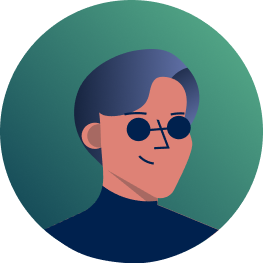
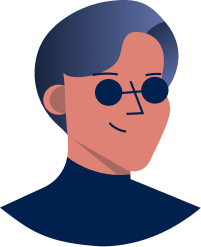
merge

diff --git a/html/index.html b/html/index.html
@@ -117,52 +117,66 @@
             </div>
         </div>
         <div class="flex--column content-main">
-            <div class="flex--row content-wrapper dash-wrapper active">
-                <div class="flex--column wrapper--left">
-                    <div class="flex--column welcome-header">
-                        <span class="header">Hi, Remolo 👋</span>
-                        <span class="subheader">Welcome back to your personal calendar!</span>
-                    </div>
-                    <div class="flex--row profile--wrapper">
-                        <div class="flex--row profile-data-box">
-                            <div class="picture-box">
-                                <img src="../assets/img/profile-picture1.png" class="profile-picture" alt="profile picture">
+            <div class="flex--column dash-wrapper active">
+                <div class="flex--column section-header">
+                    <span class="header">Hi, Remolo 👋</span>
+                    <span class="subheader">Welcome back to your personal calendar!</span>
+                </div>
+                <div class="flex--row content-wrapper">
+                    <div class="flex--column wrapper--left">
+                        <div class="flex--row profile--wrapper">
+                            <div class="flex--row content-box profile-data-box">
+                                <div class="picture-box">
+                                    <img src="../assets/img/profile-picture1.png" class="profile-picture" alt="profile picture">
+                                </div>
+                                <div class="flex--column  profile-data">
+                                    <div class="profile-data--name">
+                                        <span class="light-header">Full Name</span>
+                                        <span>Remolo van de Plasse</span>
+                                    </div>
+                                    <div class="profile-data--email">
+                                        <span class="light-header">Position</span>
+                                        <span>Full-time student</span>
+                                    </div>
+                                    <div class="profile-data--ec">
+                                        <span class="light-header">Member since</span>
+                                        <span> 2022</span>
+                                    </div>
+                                </div>
                             </div>
-                            <div class="flex--column profile-data">
-                                <span class="profile-data--name">Remolo</span>
-                                <span class="profile-data--email">remolovdplasse@gmail.com</span>
-                                <span class="profile-data--ec">24 EC</span>
+                            <div class="flex--column content-box avg-gpa-box">
+                                <span class="box--header">Average GPA</span>
+                                <div class="avg-gpa-box--gpa">
+                                    <span>
+                                        7.56
+                                    </span>
+                                </div>
                             </div>
                         </div>
-                        <div class="flex--column avg-gpa-box">
-                            <span class="box--header">Average GPA</span>
-                            <div class="avg-gpa-box--gpa">
-                                <span>
-                                    7.56
-                                </span>
-                            </div>
-                        </div>
-                    </div>
-                    <div class="courses--box">
-                        <span class="box--header">Courses</span>
-                        <div class="flex--row courses">
-                            <div class="flex--column course">
-                                <span class="course--header">Academische Vaardigheden KI jaar 1</span>
-                                <img src="../assets/img/practical-abilities-ki.png" alt="course image">
-                                <span>50821PAV0Y</span>
-                                <span>162 students, enrolled</span>
-                                <div class="course-status">
-                                    Passed
+                        <div class="content-box courses--box">
+                            <span class="box--header">Courses</span>
+                            <div class="flex--row courses">
+                                <div class="flex--column course">
+                                    <span class="course--header">Academische Vaardigheden KI jaar 1</span>
+                                    <img src="../assets/img/practical-abilities-ki.png" alt="course image">
+                                    <span class="course-code">50821PAV0Y</span>
+                                    <span class="student-amount">
+                                        <img src="../assets/img/student-icon.png">
+                                        162 students, enrolled
+                                    </span>
+                                    <div class="course-status">
+                                        Passed
+                                    </div>
                                 </div>
                             </div>
                         </div>
                     </div>
-                </div>
-                <div class="flex--column wrapper--right">
-                    <div class="attendance--box">
-                        <span class="box--header">Attendance</span>
-                        <div class="attendance--content">
-                            cool
+                    <div class="flex--column wrapper--right">
+                        <div class="content-box attendance--box">
+                            <span class="box--header">Attendance</span>
+                            <div class="attendance--content">
+                                cool
+                            </div>
                         </div>
                     </div>
                 </div>
@@ -332,7 +346,15 @@
                 </div>
             </div>
             <div class="content-wrapper personal-timetable">
-                Hier kan je shit neerzetten ouail
+                <div class="flex--column section-header">
+                    <span class="header">Your Timetable 📅</span>
+                </div>
+                <div class="flex--row content-wrapper">
+                    <div class="flex--column wrapper--left">
+                        <div class="content-box periods"></div>
+                    </div>
+                    <div class="flex--column wrapper--right"></div>
+                </div>
             </div>
         </div>
     </div>

diff --git a/css/overview.css b/css/overview.css
@@ -1,53 +1,49 @@
 .dash-wrapper {
-    gap: 10px;
     display: none;
+}
+
+.dash-wrapper .content-wrapper {
+    gap: 30px;
+
     padding: 20px;
 }
 
-.welcome-header .header {
-    font-size: 32px;
-    font-weight: 600;
-    color: var(--main-accent-color);
-}
-
-.welcome-header .subheader {
-    font-size: 16px;
-    font-weight: 400;
-    color: var(--main-sub-color);
-}
-
 .wrapper--left {
-    gap: 40px;
+    gap: 30px;
 }
 
 .wrapper--right {
-    height: 100vh;
-    gap: 40px;
+    height: 100%;
+    gap: 30px;
 }
 
 .profile--wrapper {
     width: 50vw;
-    gap: 40px;
+    gap: 30px;
 }
 
 .profile--wrapper .profile-data-box {
     width: 100%;
-    padding: 20px;
     border-radius: 10px;
     background-color: var(--main-component-color);
     color: var(--main-accent-color);
 }
 
 .picture-box {
+    width: 250px;
+    height: 315px;
     display: flex;
     justify-content: center;
+    align-items: center;
+    margin-right: 5px;
+    padding-right: 5px;
+    background: linear-gradient(48.71deg, #55AA88 0%, #114455 105.14%);
+    border-radius: 8px 0px 0px 8px;
 }
 
 .profile-picture {
-    width: 100%;
-    min-width: 190px;
-    border-radius: 100%;
-    object-fit: cover;
+    width: 200px;
+    height: 246.37px;
 }
 
 .profile-data {
@@ -57,13 +53,34 @@
 .box--header {
     font-size: 28px;
     font-weight: 600;
+    padding: 20px;
     color: var(--main-sub-color);
 }
 
 .profile-data-box span {
-    font-size: 16px;
-    font-weight: 400;
-    color: var(--main-sub-color);
+    font-size: 20px;
+    font-weight: 500;
+    color: var(--main-accent-color);
+    white-space: nowrap;
+
+}
+
+.profile-data-box .light-header {
+    color: var(--divider-bar-color) !important;
+
+}
+
+.profile-data {
+    display: flex;
+    flex-direction: column;
+    justify-content: center;
+    gap: 10px;
+    padding: 20px 50px 20px 20px;
+}
+
+.profile-data>div {
+    display: flex;
+    flex-direction: column;
 }
 
 .avg-gpa-box {
@@ -89,14 +106,15 @@
     display: flex;
     align-items: center;
     justify-content: center;
-    height: 100px;
-    width: 100px;
+    height: 90px;
+    width: 90px;
     font-size: 48px;
     font-weight: 600;
     color: var(--main-glow-color);
     border: 8px solid var(--main-glow-color);
     border-radius: 100%;
     padding: 40px;
+    margin: 10px;
 }
 
 .courses--box {
@@ -108,17 +126,19 @@
 
 .courses {
     padding: 20px;
-    overflow-x: scroll;
     height: 100%;
     gap: 20px;
+
+
 }
 
 .courses .course {
     align-items: center;
-    gap: 10px;
+    gap: 15px;
     padding: 20px;
     background-color: var(--main-bg-color);
     font-size: 15px;
+    height: 330px;
 }
 
 .course .course--header {
@@ -133,6 +153,7 @@
 }
 
 .course .course-status {
+    margin-top: auto;
     text-align: center;
     width: 100%;
     padding: 10px;
@@ -141,12 +162,29 @@
     color: var(--selected-text-color);
 }
 
-.attendance--box {
+.course .course-code {
+    color: var(--text-color-plain);
+    font-weight: 600;
+}
 
-    margin: 20px;
-    height: 100vh;
-    /*Remove, im lazy */
-    width: 500px;
+.course .student-amount {
+    display: flex;
+    align-items: center;
+    justify-content: center;
+    gap: 5px;
+    color: var(--text-color-plain);
+    font-weight: 600;
+}
+
+.student-amount img {
+    width: 20px;
+    height: 20px;
+}
+
+.attendance--box {
+    height: 100%;
+
+    width: 30vw;
     padding: 5px;
 
     background-color: var(--main-component-color);

diff --git a/css/globals.css b/css/globals.css
@@ -9,7 +9,8 @@
     --selected-text-color: #FFFFFF;
     --divider-bar-color: #A8ABC4;
     --sub-text-color: #114455;
-    --main-error-color: #cc3a30;
+    --text-color-plain: #000000;
+
 }
 
 
@@ -42,4 +43,24 @@ body {
 
 .active {
     display: flex !important;
+}
+
+.section-header {
+    padding: 20px;
+}
+
+.section-header .header {
+    font-size: 32px;
+    font-weight: 600;
+    color: var(--main-accent-color);
+}
+
+.section-header .subheader {
+    font-size: 16px;
+    font-weight: 400;
+    color: var(--main-sub-color);
+}
+
+.content-box {
+    box-shadow: 0px 4px 4px rgba(0, 0, 0, 0.25);
 }

diff --git a/css/content.css b/css/content.css
@@ -1,6 +1,6 @@
 .content-main {
     width: 100%;
-    height: 100vh;
+    height: 100%;
     background-color: var(--main-bg-color);
     overflow-y: scroll;
 }

diff --git a/php/timetable.php b/php/timetable.php
@@ -4,8 +4,17 @@
     /* Content for the page below */
 ?>
 
-
-
+    <div class="content-wrapper personal-timetable">
+        <div class="flex--column section-header">
+            <span class="header">Your Timetable 📅</span>
+        </div>
+        <div class="flex--row content-wrapper">
+            <div class="flex--column wrapper--left">
+                <div class="content-box periods"></div>
+            </div>
+            <div class="flex--column wrapper--right"></div>
+        </div>
+    </div>
 
 
 <?php
